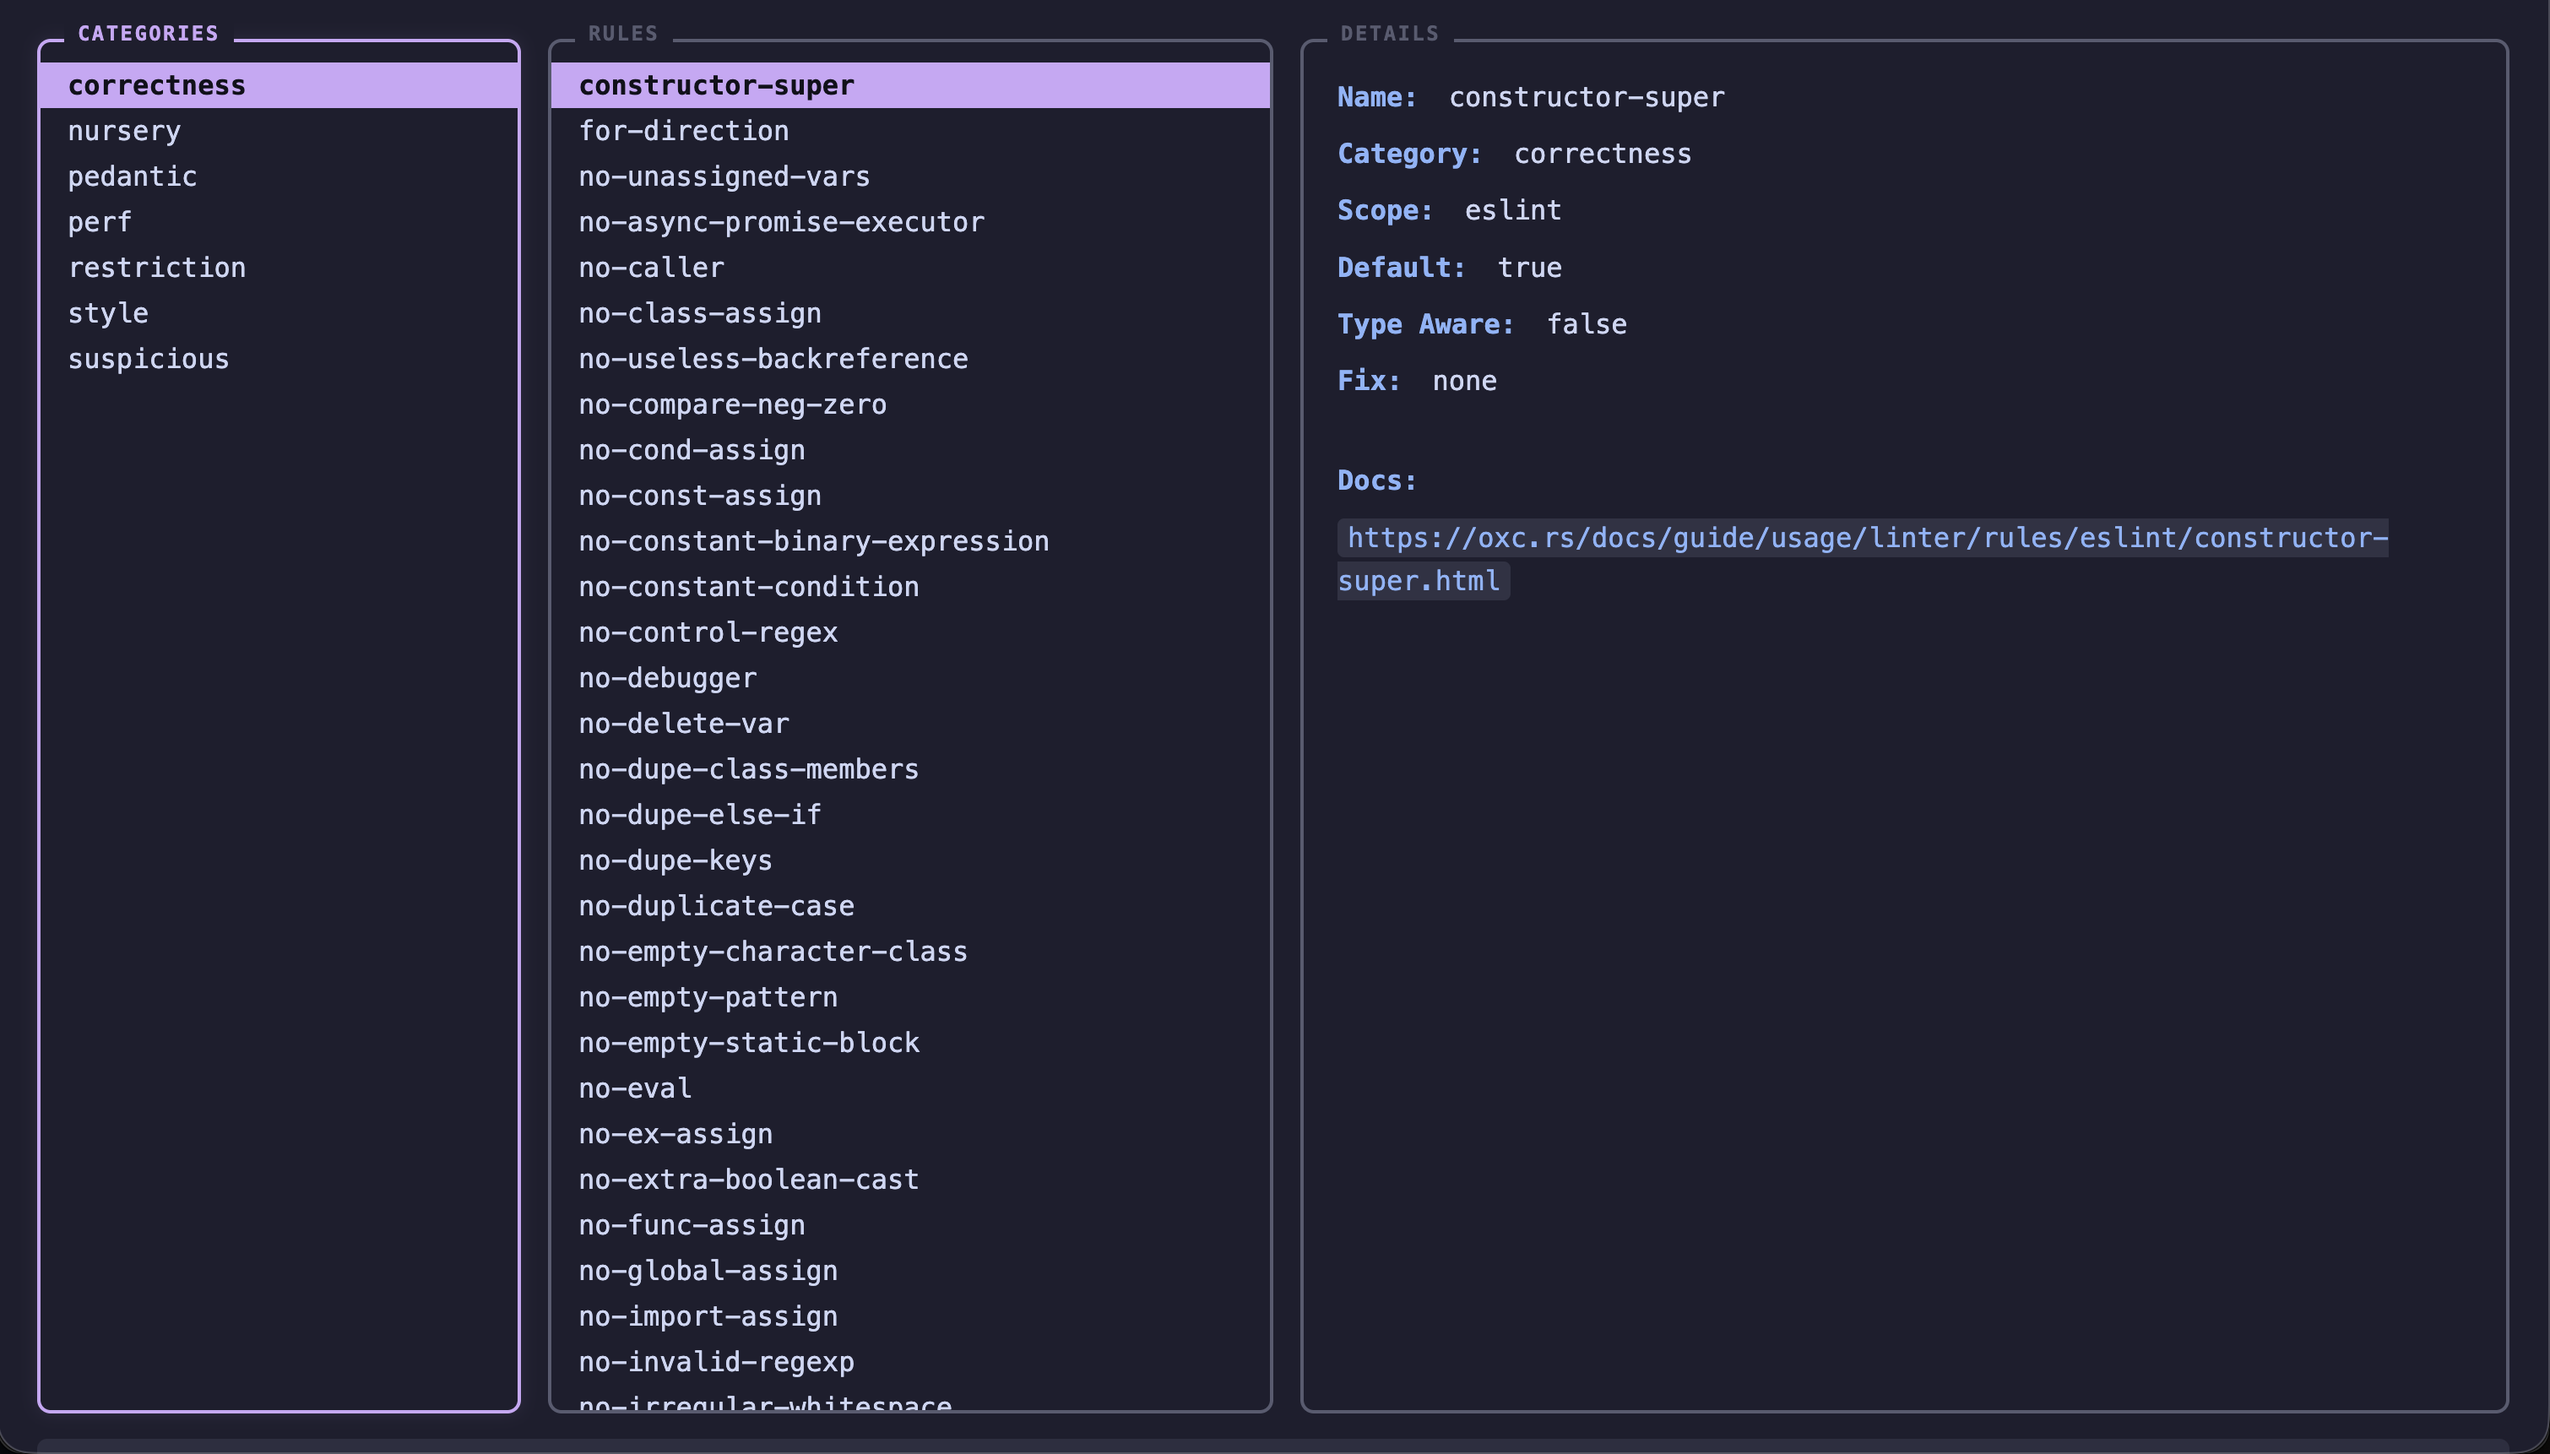
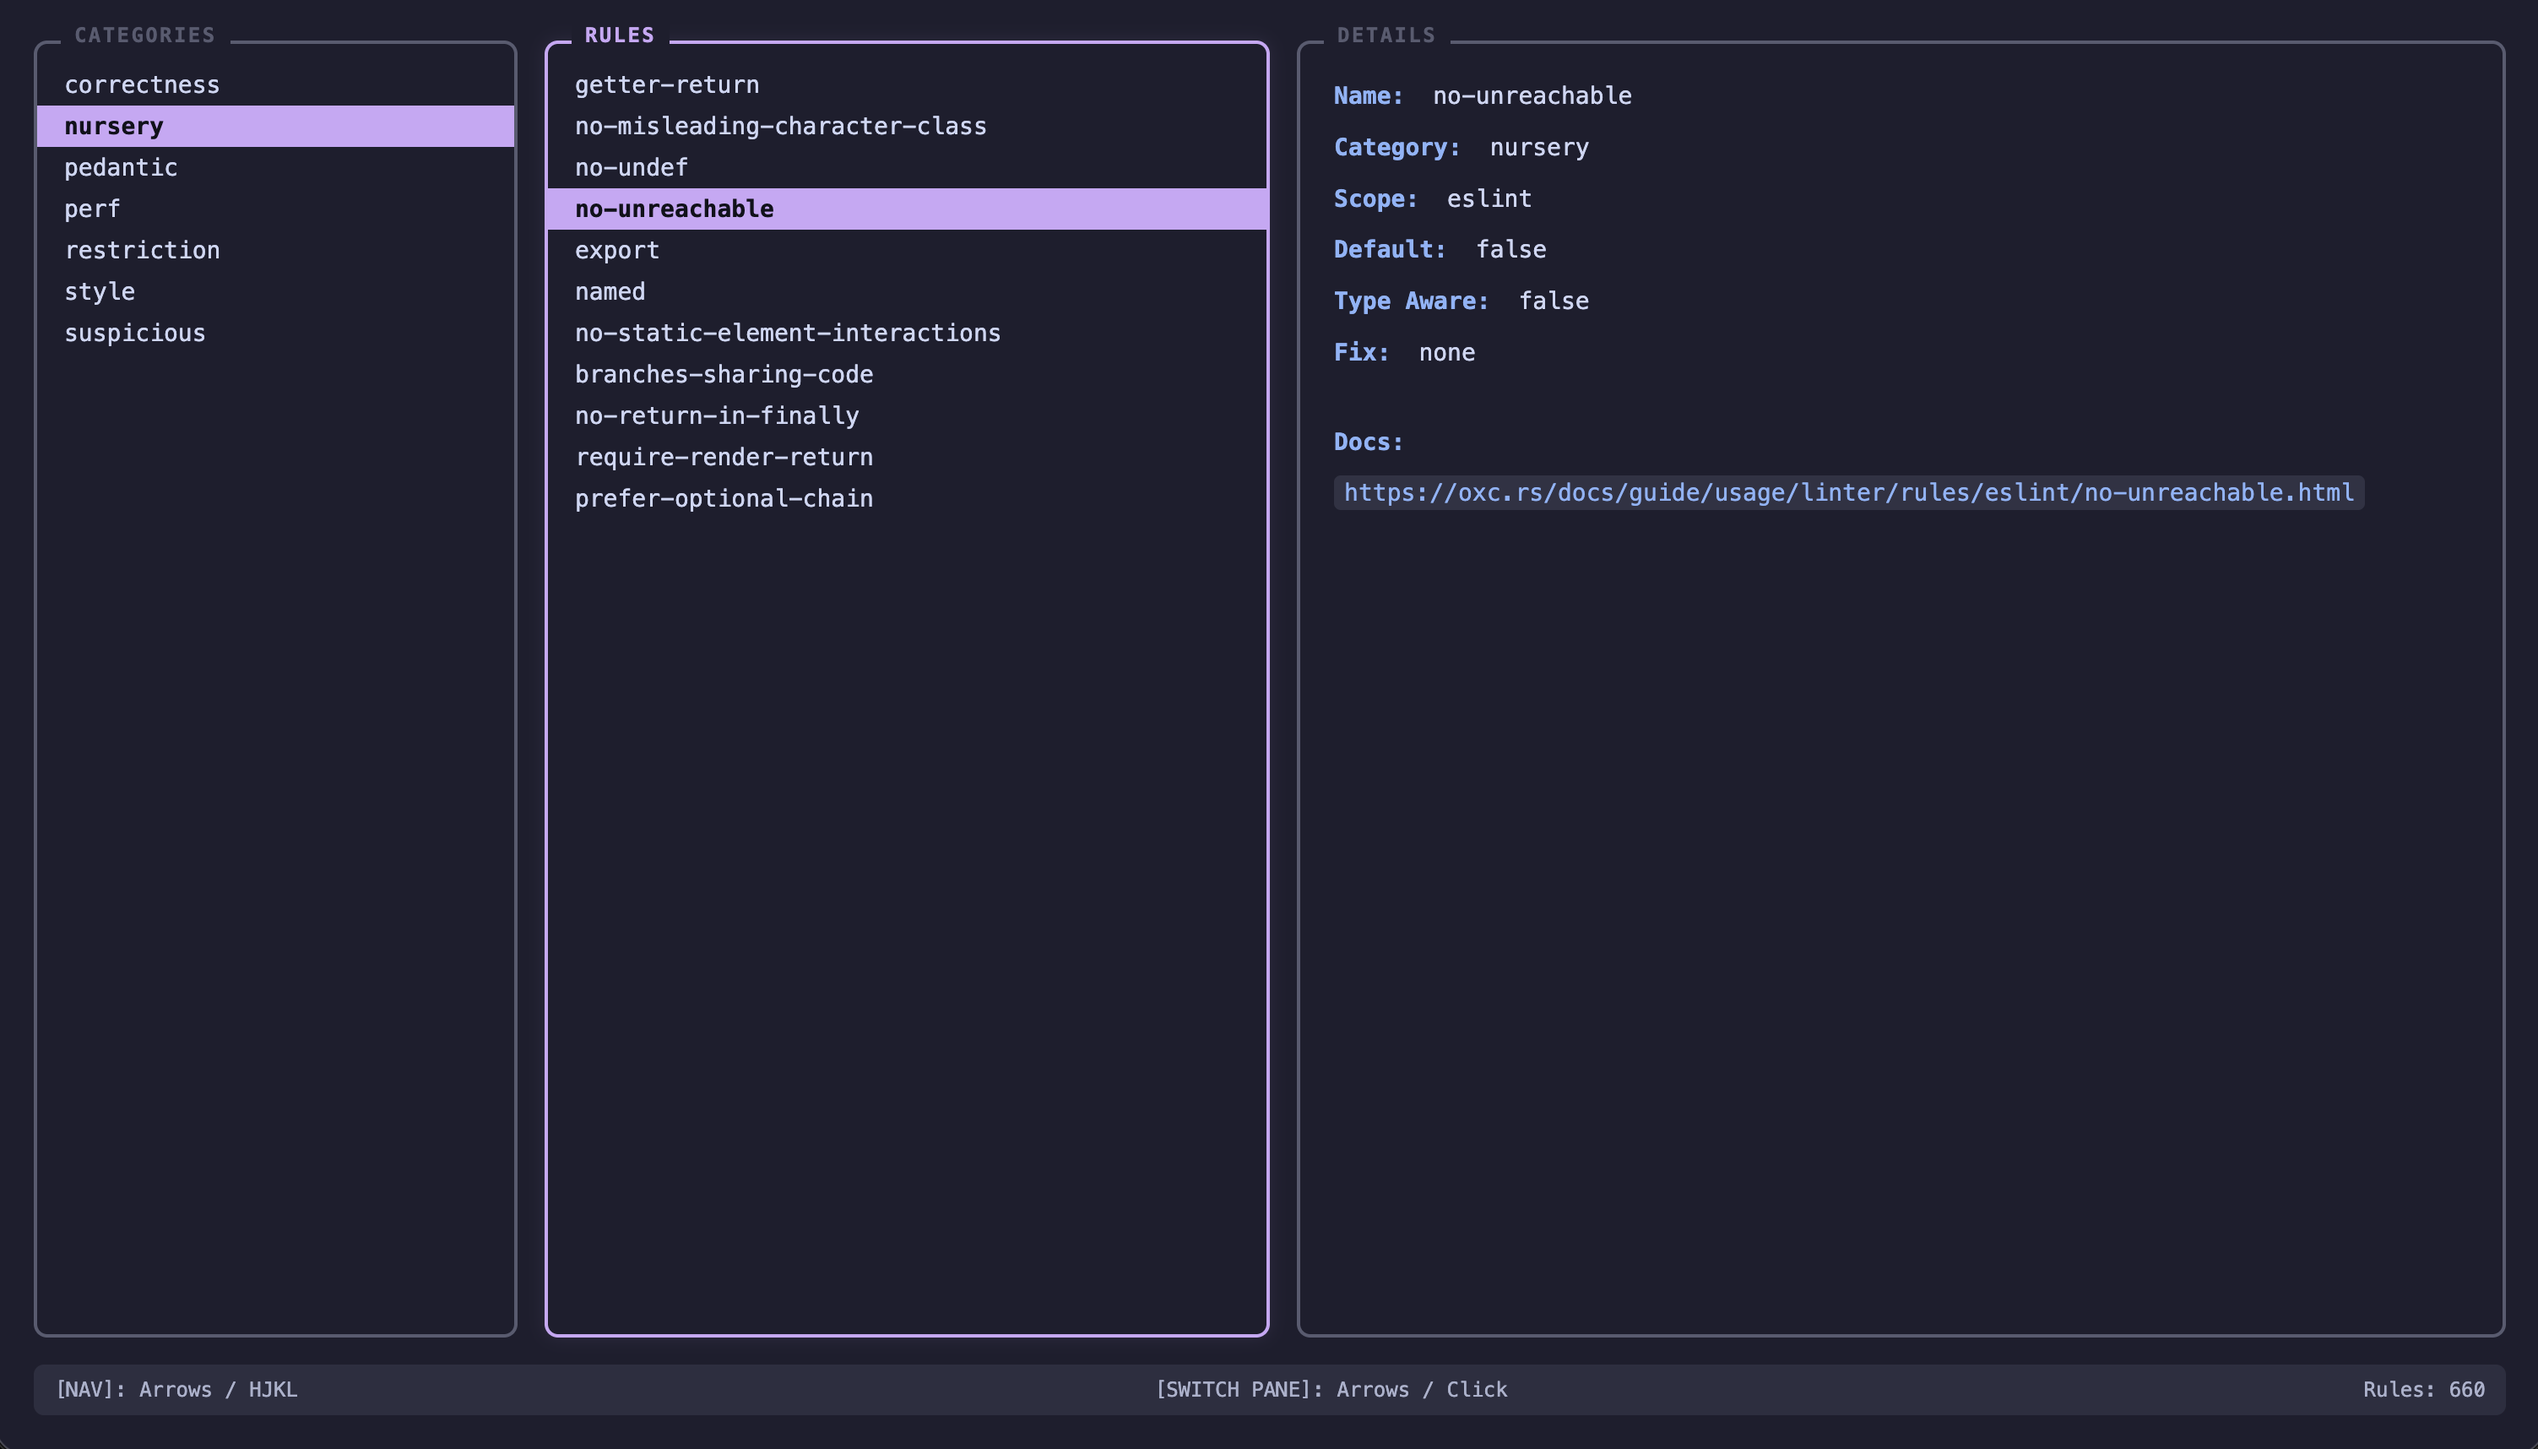
update ui

diff --git a/index.html b/index.html
@@ -29,6 +29,15 @@
         overflow: hidden;
         display: flex;
         flex-direction: column;
+        font-size: 14px;
+      }
+
+      .flex-row {
+        display: flex;
+        flex-direction: row;
+        height: 100%;
+        flex: 1 1 auto;
+        min-height: 0;
       }
 
       .flex-row {
@@ -125,7 +134,7 @@
       }
 
       .status-bar {
-        margin-top: 15px;
+        margin-top: 1rem;
         padding: 8px 12px;
         background: var(--surface);
         border-radius: 6px;
@@ -134,6 +143,7 @@
         display: flex;
         justify-content: space-between;
         opacity: 0.8;
+        flex-shrink: 0;
       }
     </style>
   </head>
@@ -267,9 +277,6 @@
         <br>
         <div class="prop-row"><span class="prop-key">Docs:</span></div>
         <a href="${rule.docs_url}" target="_blank">${rule.docs_url}</a>
-
-        <br>
-        <p> Navigate using
       `;
       }
 
